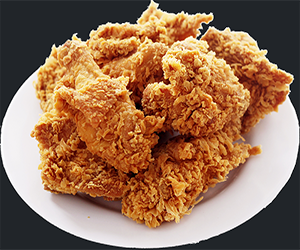
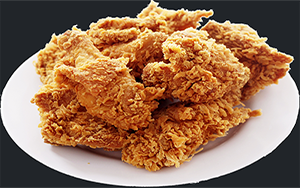
responsive card image 🔧

diff --git a/src/components/module/MyCard.js b/src/components/module/MyCard.js
@@ -5,9 +5,8 @@ const MyCard = ({pic, title}) => {
   return (
     <Card className = "w-75 mt-5 mx-auto" data-bs-theme = "dark">
         <Image 
-          className = "w-100 mx-auto mt-3"
+          className = "mx-auto mt-3 img-fluid"
           alt = "product-category" 
-          height = {250} 
           src = {pic} />
         <p className = "text-center mt-2 fs-5 card-title">{title}</p>
     </Card>

diff --git a/src/utils/categories.js b/src/utils/categories.js
@@ -2,7 +2,7 @@ import pizza from "@/public/images/card-pizza.jpg";
 import hamber from "@/public/images/hamber.jpg";
 import salad from "@/public/images/salad.jpg";
 import sand from "@/public/images/sand.jpg";
-import drink from "@/public/images/drink.png";
+import drink from "@/public/images/drink-1.jpg";
 import fried from "@/public/images/fried-chicken.png";
 
 export const categories = [
